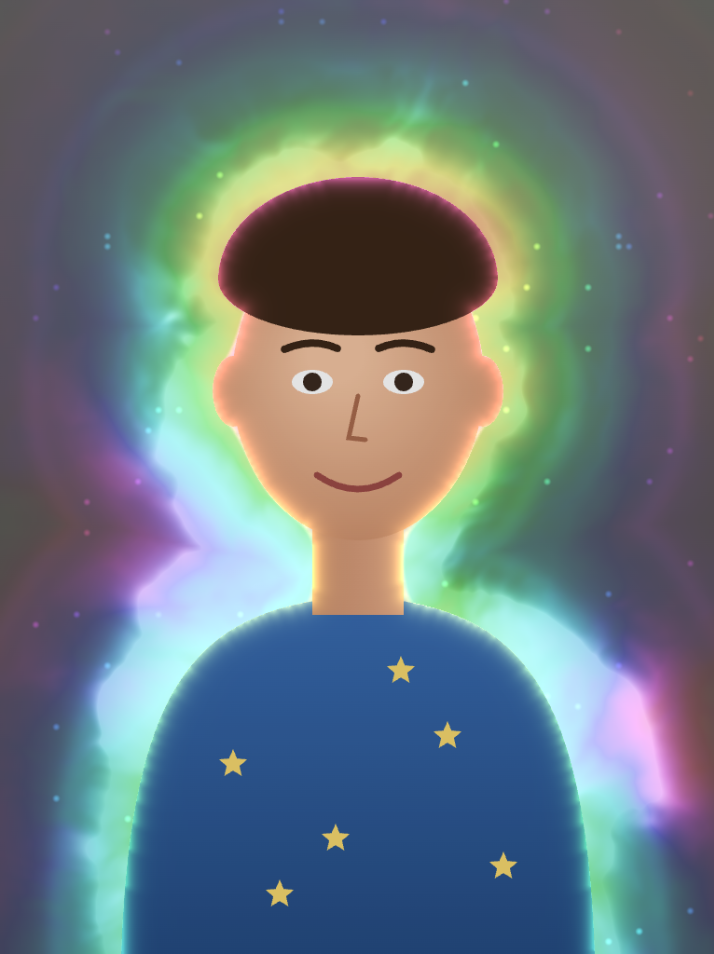
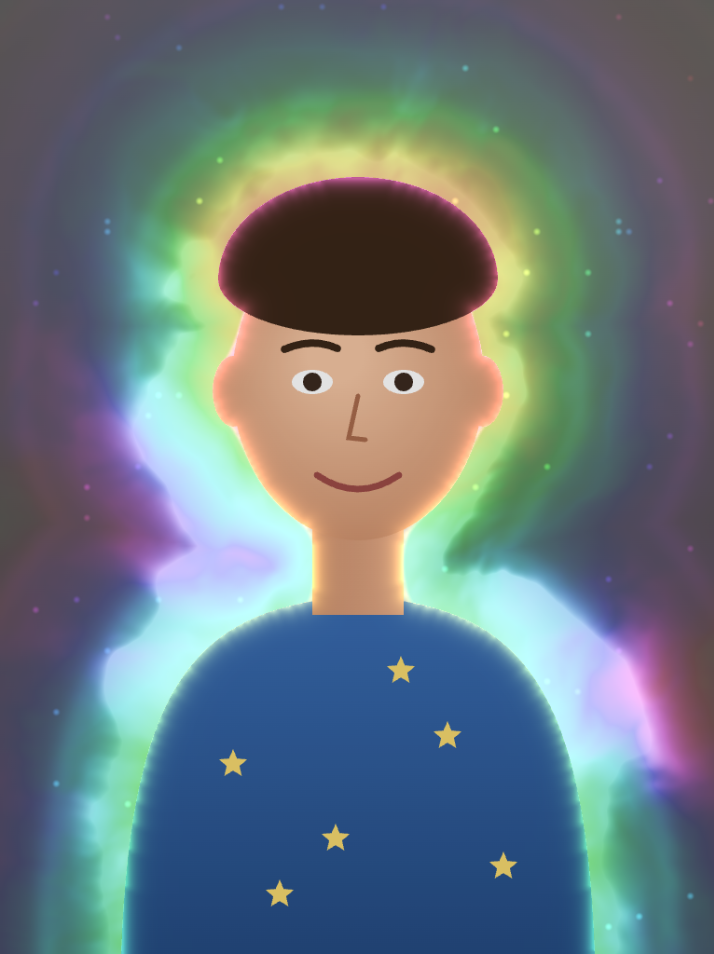
README palm shot: no background seam (tall viewport instead of fullPage)
Claude-Session: https://claude.ai/code/session_01CAFf8gEb2D62yAiQPHbanw

diff --git a/HANDOFF.md b/HANDOFF.md
@@ -23,7 +23,7 @@ _Updated 2026-10-22._
 - **Studio-wide status** (portfolio, domain, every demo, what's waiting on Chase): https://github.com/holroydchase-afk/pm-tools/blob/main/STUDIO-STATUS.md
 
 ## Done
-- 2026-10-24 night shift, round 7 (branch `m2.23-round7`, stacked on `m2.22-screenshots`): ux-reviewer verified all 15 round-6 fixes and found 7 more, all fixed here with tests first: R62 (P1) the palm reading scrolls into view when it's ready; R63 laptops say "Click and hold"; R64 laptop photo lead matches its buttons; R65 link preview text and og.png pitch the on-device aura; R66 README points to See the aura demo; R67 Try the sample first when nobody's in the photo; R68 README aura shots have square, clean corners. Nothing at P2 or above is left.
+- 2026-10-24 night shift, round 7 (branch `m2.23-round7`, stacked on `m2.22-screenshots`): ux-reviewer verified all 15 round-6 fixes and found 7 more, all fixed here with tests first: R62 (P1) the palm reading scrolls into view when it's ready; R63 laptops say "Click and hold"; R64 laptop photo lead matches its buttons; R65 link preview text and og.png pitch the on-device aura; R66 README points to See the aura demo; R67 Try the sample first when nobody's in the photo; R68 README aura shots have square, clean corners, and the palm README shot no longer shows a background seam. Nothing at P2 or above is left.
 - 2026-10-24 night shift, screenshots (branch `m2.22-screenshots`, stacked on `m2.21-ui-polish`): README screenshots and `public/og.png` regenerated from the new UI with `npm run screenshots`; the start and palm shots now show a first visit (Always Grey off, 7pm). 
 - 2026-10-24 night shift, UI polish (branch `m2.21-ui-polish`, stacked on `m2.20-photo-polish`), failing tests first:
   - R53: with Always Grey on, See every color is the main button beside Scan again; the note says it's a grown-up setting.
